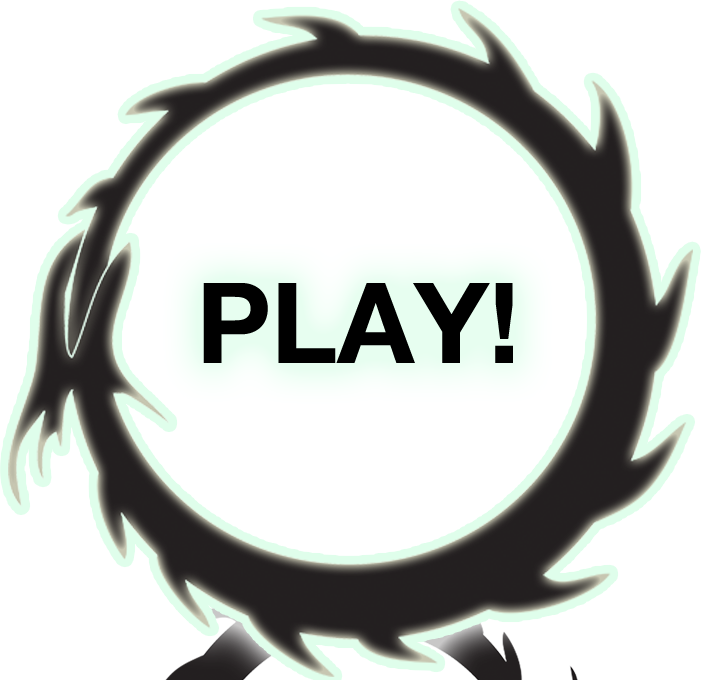
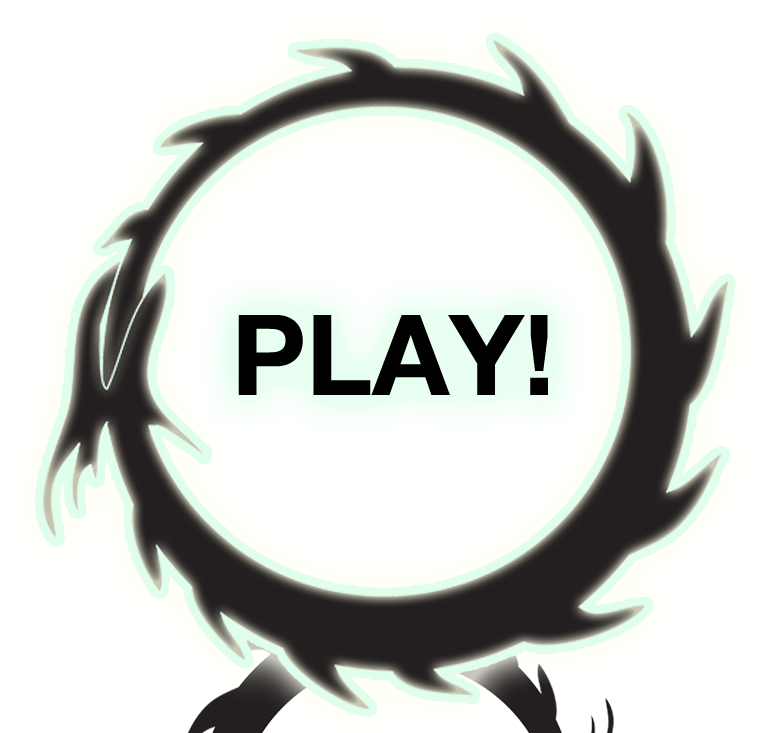
fixed bug

diff --git a/src/bode/moritz/footfinger/MainMenuLayer.java b/src/bode/moritz/footfinger/MainMenuLayer.java
@@ -25,18 +25,21 @@ public class MainMenuLayer extends CCColorLayer {
 		float winSize = (float) (CCDirector.sharedDirector().displaySize().getWidth()/960.0);
 		background.setScale(winSize);
 		background.setAnchorPoint(CGPoint.ccp(0f, 0f));
+		addChild(background);
 		
 		
 		CCSprite text = CCSprite.sprite("selection/text.png");
-		text.setScale(0.5f);
-		text.setAnchorPoint(CGPoint.ccp(0f, 0f));
+		text.setScale(winSize);
+		text.setAnchorPoint(CGPoint.ccp(CCDirector.sharedDirector().displaySize().getWidth()/2, 60.0f));
+		addChild(text);
 		
 		CCMenuItem keeperItem = CCMenuItemImage.item("selection/keeper_btn.png", "selection/keeper_btn_p.png", this, "keeperClick");
 		CCMenuItem shooterItem = CCMenuItemImage.item("selection/shooter_btn.png", "selection/shooter_btn_p.png", this, "shooterClick");
-		keeperItem.setScale(0.5f);
-		shooterItem.setScale(0.5f);
+		keeperItem.setScale(winSize);
+		shooterItem.setScale(winSize);
 		CCMenu menu = CCMenu.menu(keeperItem, shooterItem);
-        menu.alignItemsVertically(300f);
+		menu.setAnchorPoint(CCDirector.sharedDirector().displaySize().getWidth()/2, 400.0f);
+        menu.alignItemsVertically();
         
         addChild(menu);
 	}
